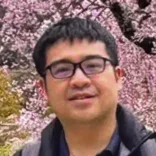
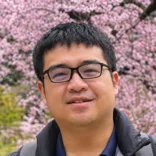
Testimonials: new photo for Reinhard (Sola Sport Hall)
Square crop on the face, 156px WebP, cache-busting query.

diff --git a/index.html b/index.html
@@ -556,12 +556,12 @@
       <template data-qtc-item data-group="avm" data-lang="en"><figure class="qtc__fig"><figcaption class="qtc__person"><span class="qtc__avatar qtc__avatar--photo" aria-hidden="true"><img src="assets/testimonials/edwin.webp" alt="" width="52" height="52" loading="lazy" decoding="async"></span><span class="qtc__who"><span class="qtc__name">Edwin</span><span class="qtc__role">Venue Owner, Wins Arena</span></span></figcaption><blockquote class="qtc__quote qtc__quote--long"><p>“Previously, we managed bookings through WhatsApp, which often led to errors and significant fraud risks. That’s why the cashless system has been incredibly helpful.</p><p>Since using AVM, bookings and payments have become much more efficient. We no longer need to manually track whether payments have been received.</p><p>I highly recommend AVM because it helps solve the fundamental challenges every sports venue faces.”</p></blockquote></figure></template>
       <template data-qtc-item data-group="avm" data-lang="en"><figure class="qtc__fig"><figcaption class="qtc__person"><span class="qtc__avatar qtc__avatar--photo" aria-hidden="true"><img src="assets/testimonials/visi.webp" alt="" width="52" height="52" loading="lazy" decoding="async"></span><span class="qtc__who"><span class="qtc__name">Visi</span><span class="qtc__role">Venue Owner, Arena Badminton</span></span></figcaption><blockquote class="qtc__quote qtc__quote--long"><p>“We chose AYO because its features are easier to use compared to other applications, and communicating with the AYO team is also very easy.</p><p>Since using AVM, all of its features have made our venue operations easier.</p><p>I recommend AVM because the AYO team is highly responsive, the administration fees are affordable, and the app is user-friendly.”</p></blockquote></figure></template>
       <template data-qtc-item data-group="avm" data-lang="en"><figure class="qtc__fig"><figcaption class="qtc__person"><span class="qtc__avatar qtc__avatar--photo" aria-hidden="true"><img src="assets/testimonials/shahrina.webp?v=20261124" alt="" width="52" height="52" loading="lazy" decoding="async"></span><span class="qtc__who"><span class="qtc__name">Shahrina</span><span class="qtc__role">Venue Owner, The Field</span></span></figcaption><blockquote class="qtc__quote qtc__quote--long"><p>“We chose AYO because its features make venue management easier.</p><p>AVM’s membership feature has been especially helpful, as we no longer need to collect membership payments manually. The booking feature also allows us to offer add-ons with court reservations.</p><p>I recommend AVM to other venue owners because it makes managing daily venue operations much easier.”</p></blockquote></figure></template>
-      <template data-qtc-item data-group="avm" data-lang="en"><figure class="qtc__fig"><figcaption class="qtc__person"><span class="qtc__avatar qtc__avatar--photo" aria-hidden="true"><img src="assets/testimonials/reinhard.webp" alt="" width="52" height="52" loading="lazy" decoding="async"></span><span class="qtc__who"><span class="qtc__name">Reinhard</span><span class="qtc__role">Director, Solideo School, Sola Sport Hall</span></span></figcaption><blockquote class="qtc__quote qtc__quote--long"><p>“We chose AYO because of its strong reputation and its large user base.</p><p>With AVM, we can manage bookings, maximize court usage, and handle payments all in one app. Its features also help us reach new players, even from outside the city.</p><p>I highly recommend AVM because it covers everything from bookings and payments to marketing and player feedback. Our operations have become faster and more efficient, and we’re seeing great results.”</p></blockquote></figure></template>
+      <template data-qtc-item data-group="avm" data-lang="en"><figure class="qtc__fig"><figcaption class="qtc__person"><span class="qtc__avatar qtc__avatar--photo" aria-hidden="true"><img src="assets/testimonials/reinhard.webp?v=20261124b" alt="" width="52" height="52" loading="lazy" decoding="async"></span><span class="qtc__who"><span class="qtc__name">Reinhard</span><span class="qtc__role">Director, Solideo School, Sola Sport Hall</span></span></figcaption><blockquote class="qtc__quote qtc__quote--long"><p>“We chose AYO because of its strong reputation and its large user base.</p><p>With AVM, we can manage bookings, maximize court usage, and handle payments all in one app. Its features also help us reach new players, even from outside the city.</p><p>I highly recommend AVM because it covers everything from bookings and payments to marketing and player feedback. Our operations have become faster and more efficient, and we’re seeing great results.”</p></blockquote></figure></template>
       <template data-qtc-item data-group="avm" data-lang="id"><figure class="qtc__fig"><figcaption class="qtc__person"><span class="qtc__avatar qtc__avatar--photo" aria-hidden="true"><img src="assets/testimonials/andika.webp" alt="" width="52" height="52" loading="lazy" decoding="async"></span><span class="qtc__who"><span class="qtc__name">Andika Ahmaludin</span><span class="qtc__role">Head of Marketing, The Raquette Temple &amp; Urban Sports Dome</span></span></figcaption><blockquote class="qtc__quote qtc__quote--long"><p>“Mengelola beberapa venue dengan karakter olahraga berbeda membuat kami membutuhkan sistem yang terpusat dan profesional. Kami ingin meninggalkan booking manual yang rawan double booking dan memakan waktu, sekaligus memperluas jangkauan pasar lewat komunitas olahraga AYO.</p><p>Fitur manajemen jadwal real-time dan booking otomatis AVM adalah yang paling terasa dampaknya. Tim kami bisa memantau seluruh venue tanpa harus membalas pesan satu per satu.</p><p>Saya sangat merekomendasikan AVM bagi pengelola venue yang ingin bisnisnya lebih scalable dan terukur. AVM mudah digunakan staf, laporannya jelas, dan yang terpenting, ekosistem AYO aktif mendatangkan customer baru, bukan sekadar menjadi alat pencatat jadwal.”</p></blockquote></figure></template>
       <template data-qtc-item data-group="avm" data-lang="id"><figure class="qtc__fig"><figcaption class="qtc__person"><span class="qtc__avatar qtc__avatar--photo" aria-hidden="true"><img src="assets/testimonials/edwin.webp" alt="" width="52" height="52" loading="lazy" decoding="async"></span><span class="qtc__who"><span class="qtc__name">Edwin</span><span class="qtc__role">Venue Owner, Wins Arena</span></span></figcaption><blockquote class="qtc__quote qtc__quote--long"><p>“Sebelumnya, kami menggunakan sistem booking melalui WhatsApp yang sering mengalami kesalahan dan memiliki risiko penipuan cukup besar. Karena itu, sistem cashless sangat membantu.</p><p>Sejak menggunakan AVM, proses booking dan pembayaran menjadi jauh lebih efektif. Kami tidak perlu lagi mencatat secara manual apakah pembayaran sudah masuk atau belum.</p><p>Saya sangat merekomendasikan AVM karena membantu menyelesaikan masalah-masalah dasar yang dihadapi setiap pengelola lapangan.”</p></blockquote></figure></template>
       <template data-qtc-item data-group="avm" data-lang="id"><figure class="qtc__fig"><figcaption class="qtc__person"><span class="qtc__avatar qtc__avatar--photo" aria-hidden="true"><img src="assets/testimonials/visi.webp" alt="" width="52" height="52" loading="lazy" decoding="async"></span><span class="qtc__who"><span class="qtc__name">Visi</span><span class="qtc__role">Venue Owner, Arena Badminton</span></span></figcaption><blockquote class="qtc__quote qtc__quote--long"><p>“Kami memilih AYO karena fitur-fiturnya lebih mudah digunakan dibandingkan aplikasi lain, dan komunikasi dengan tim AYO juga sangat mudah.</p><p>Setelah menggunakan AVM, semua fiturnya membantu memudahkan operasional lapangan kami.</p><p>Saya merekomendasikan AVM karena tim AYO sangat responsif, biaya administrasinya terjangkau, dan aplikasinya user-friendly.”</p></blockquote></figure></template>
       <template data-qtc-item data-group="avm" data-lang="id"><figure class="qtc__fig"><figcaption class="qtc__person"><span class="qtc__avatar qtc__avatar--photo" aria-hidden="true"><img src="assets/testimonials/shahrina.webp?v=20261124" alt="" width="52" height="52" loading="lazy" decoding="async"></span><span class="qtc__who"><span class="qtc__name">Shahrina</span><span class="qtc__role">Venue Owner, The Field</span></span></figcaption><blockquote class="qtc__quote qtc__quote--long"><p>“Kami memilih AYO karena fitur-fiturnya memudahkan pengelolaan lapangan.</p><p>Fitur membership AVM sangat membantu karena kami tidak perlu lagi menagih pembayaran membership secara manual. Selain itu, fitur booking lapangan juga memungkinkan kami menyertakan add-on.</p><p>Saya merekomendasikan AVM kepada pemilik venue lainnya karena kemudahan yang ditawarkan dalam mengelola operasional lapangan.”</p></blockquote></figure></template>
-      <template data-qtc-item data-group="avm" data-lang="id"><figure class="qtc__fig"><figcaption class="qtc__person"><span class="qtc__avatar qtc__avatar--photo" aria-hidden="true"><img src="assets/testimonials/reinhard.webp" alt="" width="52" height="52" loading="lazy" decoding="async"></span><span class="qtc__who"><span class="qtc__name">Reinhard</span><span class="qtc__role">Director, Solideo School, Sola Sport Hall</span></span></figcaption><blockquote class="qtc__quote qtc__quote--long"><p>“Kami memilih AYO karena reputasinya yang sangat baik dan jumlah penggunanya yang sangat besar.</p><p>Dengan AVM, kami bisa mengelola jadwal booking, memaksimalkan penggunaan lapangan, hingga pembayaran dalam satu aplikasi. Fiturnya juga membantu kami menjangkau pemain baru, bahkan dari luar kota.</p><p>Saya sangat merekomendasikan AVM karena mencakup semua kebutuhan pengelolaan lapangan, dari booking, pembayaran, dan marketing sampai feedback dari pemain. Operasional kami jadi lebih cepat dan efisien, dan hasilnya terasa baik.”</p></blockquote></figure></template>
+      <template data-qtc-item data-group="avm" data-lang="id"><figure class="qtc__fig"><figcaption class="qtc__person"><span class="qtc__avatar qtc__avatar--photo" aria-hidden="true"><img src="assets/testimonials/reinhard.webp?v=20261124b" alt="" width="52" height="52" loading="lazy" decoding="async"></span><span class="qtc__who"><span class="qtc__name">Reinhard</span><span class="qtc__role">Director, Solideo School, Sola Sport Hall</span></span></figcaption><blockquote class="qtc__quote qtc__quote--long"><p>“Kami memilih AYO karena reputasinya yang sangat baik dan jumlah penggunanya yang sangat besar.</p><p>Dengan AVM, kami bisa mengelola jadwal booking, memaksimalkan penggunaan lapangan, hingga pembayaran dalam satu aplikasi. Fiturnya juga membantu kami menjangkau pemain baru, bahkan dari luar kota.</p><p>Saya sangat merekomendasikan AVM karena mencakup semua kebutuhan pengelolaan lapangan, dari booking, pembayaran, dan marketing sampai feedback dari pemain. Operasional kami jadi lebih cepat dan efisien, dan hasilnya terasa baik.”</p></blockquote></figure></template>
       <div class="qtc__foot">
         <div class="qtc__dots" data-qtc-dots></div>
         <div class="qtc__arrows">
